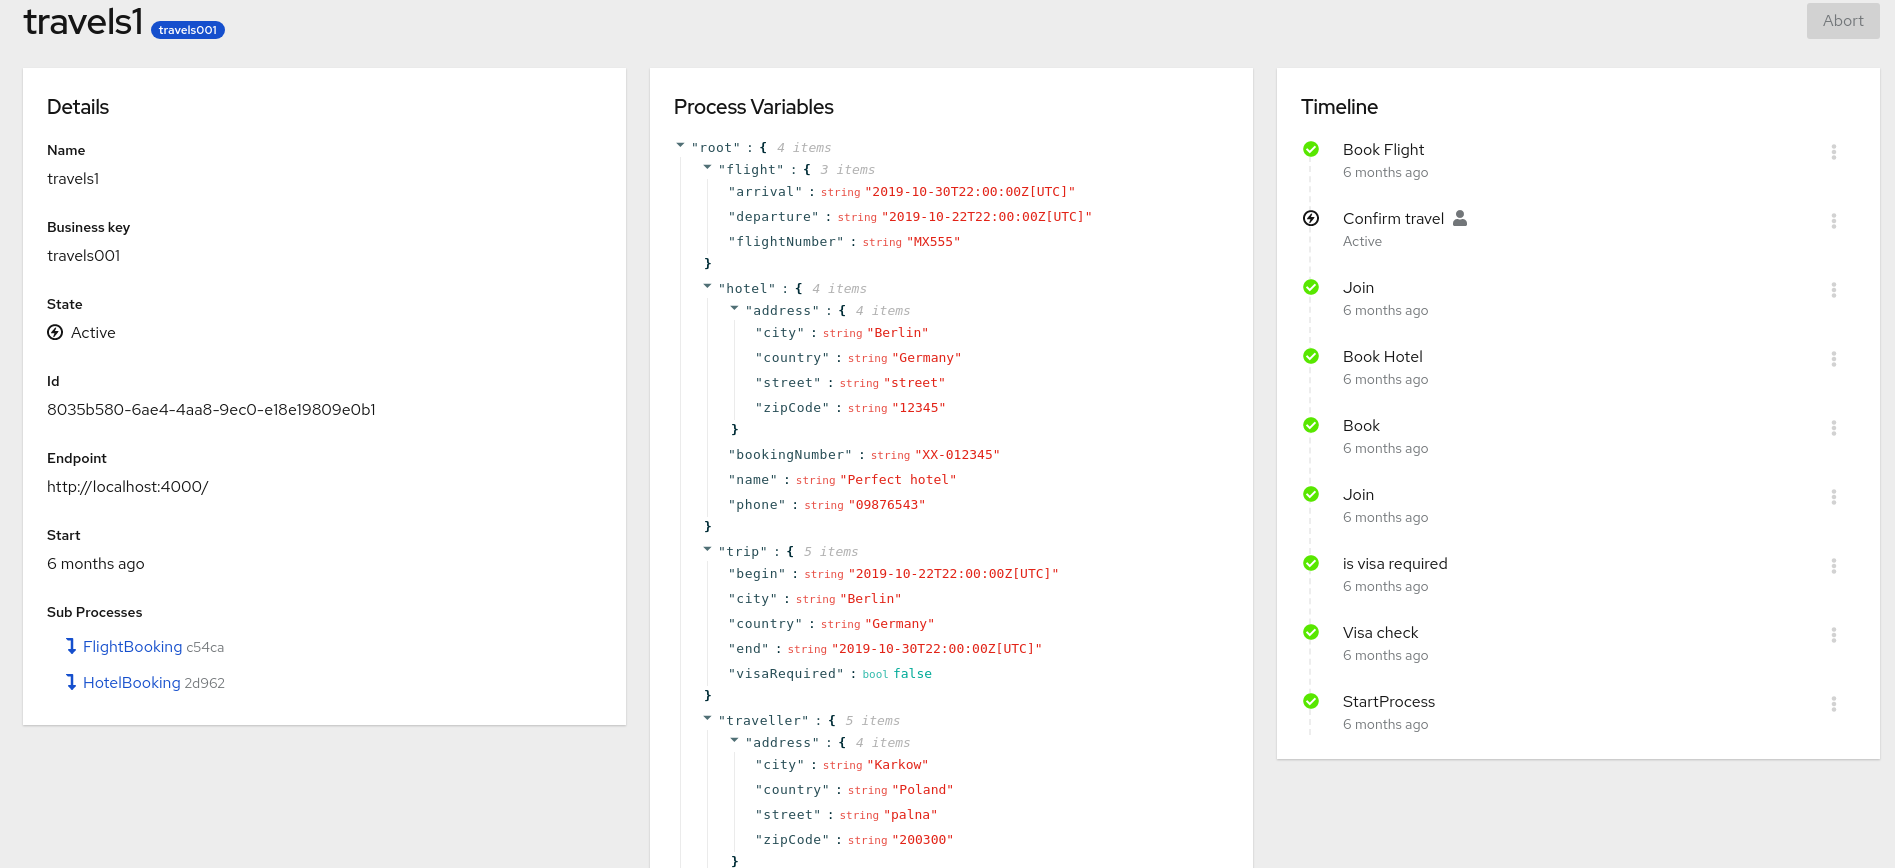
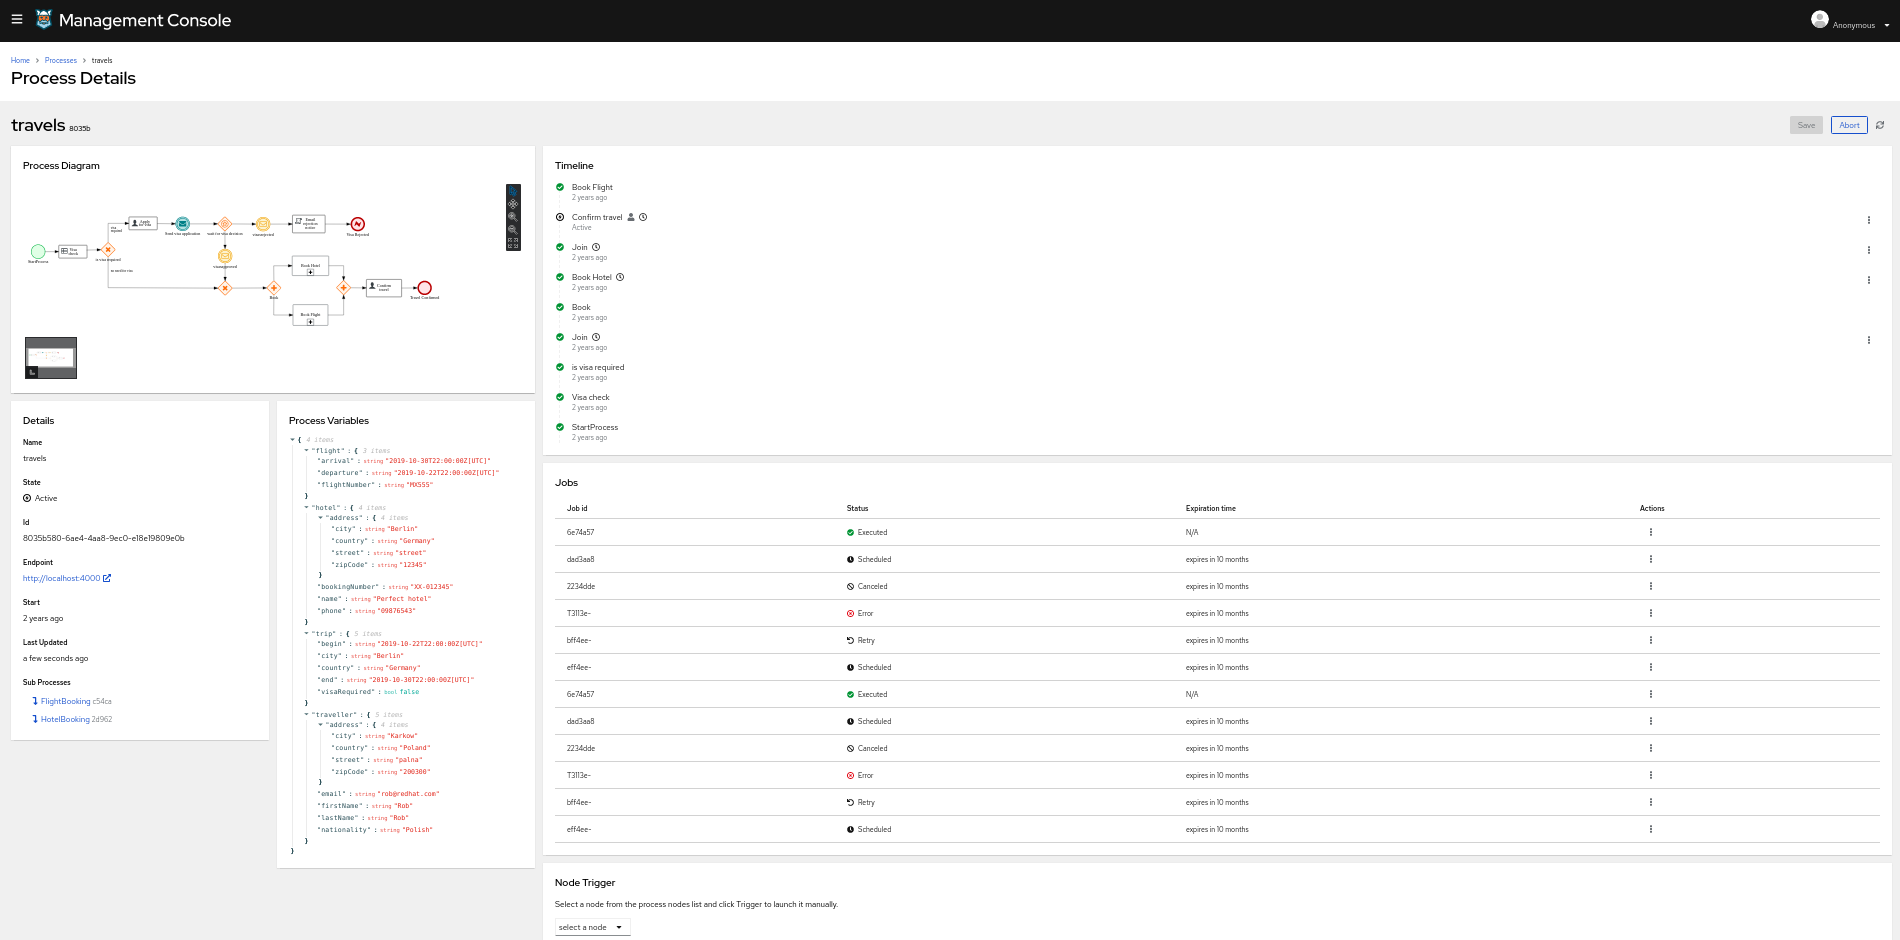
updated readme in mgmt/task console

diff --git a/management-console/README.md b/management-console/README.md
@@ -26,6 +26,8 @@ The application is now runnable using:
 java -jar target/management-console-8.0.0-SNAPSHOT-runner.jar
 ```
 
+> Note: task-console requires keycloak server to be initialied for authentication.
+
 ## Creating a native executable
 
 You can create a native executable using: 
@@ -99,15 +101,20 @@ Initially the process instance list loads all the active instances available.To 
 #### Bulk Process Actions
 ![Multiselect](./docs/multiselect.gif "Multiselect")
 
-  The multi select is used to select multiple process instances while performing bulk [process-management](#process-management) actions.The multi select checkbox by default selects all the parent and child process instances(if loaded). It also has drop-down actions to select none (removes all selections), select only parent process instances, select all the process instances (both parent and child). The multi-select works in correlation with the **Aborted** **selected** button which is present in the top-right corner.This is a part of the [bulk operations](#bulk-operations) performed in the list.
+  The multi select is used to select multiple process instances while performing bulk [process-management](#process-management) actions.The multi select checkbox by default selects all the parent and child process instances(if loaded). It also has drop-down actions to select none (removes all selections), select only parent process instances, select all the process instances (both parent and child). The multi-select works in correlation with the set of buttons present as a part of the toolbar. The buttons present are - **Abort selected**, **Retry selected** and **Skip selected**. This is a part of the [bulk operations](#bulk-operations) performed in the list.
 
   ![Bulkoperations](./docs/bulkoperations.gif "Bulkoperations")
   
-  The process instance list allows the user to select multiple process instances and perform bulk process management operations.It consist of *Abort selected*.The user can select individual process instances by selecting the checkbox present in the list or use the [multi select checkbox](#multi-select-checkbox) to select the process instances.Then clicking on the *Abort selected* will open a box to show the instances being aborted and the instances being skipped(An instance which is already in *Completed* or *Aborted* cannot be Aborted again, hence the instances are skipped).
+  The process instance list allows the user to select multiple process instances and perform bulk process management operations.It consist of *Abort selected*, *Retry selected* and *Skip selected*.The user can select individual process instances by selecting the checkbox present in the list or use the [multi select checkbox](#multi-select-checkbox) to select the process instances. 
+  
+  - Clicking on the *Abort selected* will open a box to show the instances being aborted and the instances being skipped(An instance which is already in *Completed* or *Aborted* cannot be Aborted again, hence the instances are skipped).
+  - Clicking on the *Retry selected* or *Skip selected* will open a box to show the instances being retriggered or skipped respectively. These actions can be performed on instances which are in *Error* state only. Other instances(in different states), if selected will appear under the skipped list.
+  
+  For all the bulk actions, if any of the instance goes throws an error while execution, they appear under the error list of the box.
 
 In addition to these , there is a **reload** button(a sync-icon), to reload the list and a **Reset to default** button which resets all the filters to its original state(Active status and no business key filter).
 
-**Note :** all the filters are applied only to the parent process instances.
+> **Note :** all the filters are applied only to the parent process instances.
 
 #### Process list
 
@@ -185,53 +192,25 @@ In addition to these , there is a **reload** button(a sync-icon), to reload the 
   #### Process variables
   The process variables shows the domain data in *JSON* format.
 
-## Domain Explorer
+  ### Process Diagram
+  The process diagram panel contains the BPMN process diagram, which the users you to view the current progress of the process.
 
-Domain Explorer allows you to inspect domain related data and process instances based on domains that are available.
+  ![Process Diagram](./docs/processdiagram.png?raw=true "ProcessDiagram")
 
-You can navigate to Domain Explorer by clicking "**Domain Explorer**" tab available on the sidebar, which will take you landing page of
-domain explorer and there you can see a list of available Domains.
+  ### Jobs Panel
+  The Jobs panel shows the list of jobs(timer) and we can execute operations on the jobs using this panel. The available operations are - *View details*, *Reschedule* and *Cancel*.
 
-![Domain Explorer](./docs/DELandingpage.png "Domain Explorer")
+  ![Jobs Panel](./docs/jobspanel.png?raw=true "JobsPanel")
 
-Selecting a domain on the landing page will direct you to a dashboard, where you can view all domain related data and list of processes associated with it.
+  ### Node Trigger Panel
+  The nodes of a process can be tirggered manually using this panel. It consist of a dropdown, which shows the list of triggerable nodes. Once the required node is selected, click on *Trigger* button to trigger the node.
 
+  ![Node Trigger](./docs/nodetrigger.png?raw=true "NodeTrigger")
 
-### Column Picker
-
-Domain Explorer allows you to select the domain attributes that you wish to see on the result table.
-
-This column picker is a multi select dropdown that contains the available domain attributes, that allows you to select any number of options available in the dropdown, there are few options that are selected by default which can be changed of your choice. The options available in the dropdown follows a certain nested pattern, displayed the entire graph of attributes available in the specific domain.
-
-eg: "**hotel/address**" denotes address attribute of hotel.
-
-After selecting/deselecting options from the dropdown, clicking on "**Apply columns**" would get you domain data on the table.
-
-![Column Picker](./docs/pickColumns.gif "Column Picker")
-
-### Refresh option
-
-There can be a possibilites of,
-* change in state of processes, while performing operations like skip, retry or abort
-* New process instance being added.
-
-In order to check the current state of processes or current list of processes available on the domain you can always do a refresh of the table by clicking icon placed next to Apply columns button. This will get you current and updated content to the table.
-
-
-### Dashboard
-
-The table on the Domain Explorer will provide you information about the specific domain data and list of processes associated with it.
-
-To check the list of processes, you may have to expand each row of the table by clicking on the **carret** icon available on each row.
-
-![Dashboard](./docs/expandRow.gif "Dashboard")
-
-### Navigate to process details
-
-To get to know more about a process, you can always click on any process instance to direct to process details page and there you can see details about the process as well as the timeline and process variables.
-
-![navigate](./docs/navigate.gif "navigate")
-
+  ### Milestones Panel
+  The milestones panel show the list of milestones present and their current states.
+  
+  ![Milestones](./docs/milestones.png?raw=true "Milestones")
 
 ## Enabling Keycloak security
 
@@ -247,6 +226,14 @@ You should be able to access your Keycloak Server at [localhost:8280/auth](http:
 and verify keycloak server is running properly: log in as the admin user to access the Keycloak Administration Console. 
 Username should be admin and password admin.
 
+The following are the users available in keycloak
+
+| Login         | Password   | Roles               |
+| ------------- | ---------- | ------------------- |
+|    admin      |   admin    | *admin*, *managers* |
+|    alice      |   alice    | *user*              |
+|    jdoe       |   jdoe     | *managers*          |
+
 To change any of this client configuration access to http://localhost:8280/auth/admin/master/console/#/realms/kogito.
 
 ### Starting Kogito Management Console in dev mode
@@ -255,48 +242,5 @@ Start the management console at port 8380, (the keycloak client 'kogito-console-
 and enabling auth:
 
 ```
-mvn clean compile quarkus:dev -Dquarkus.http.port=8380 -Dquarkus.profile=keycloak
+mvn clean compile quarkus:dev -Dquarkus.http.port=8380
 ```
-
-## Enabling Test User System
-
-Management Console and Task Console include a Test User System to be used only for testing purposes. It provides a set of
-predefined users, ability to switch users and ability to add new users (stored in-memory).
-
-It's possible to enable it by adding the parameter `kogito.test.user-system.enabled=true`, for example:
-
-```
-mvn clean compile quarkus:dev -Dquarkus.http.port=8380 -Dkogito.test.user-system.enabled=true
-```
-
-> _**NOTE**_: The Test User System won't be available when starting the application with `keycloak` profile.
-
-### Switching to a different user
-
-The Test User System provides a set of predefined users that can be used:
-
-|   User   |       Groups      |  
-|----------|-------------------|
-|   john   |     employees     |
-|   mary   |      managers     |
-|   poul   | interns, managers |
-
-Open the available users list by clicking on the top right **User Avatar**, then click on any of the
-users to switch to that user.
-
-![Showing available test users](./docs/testusersystem-menu.png "Showing available test users")
-
-### Adding new test users
-
-To register new users to the Test User System just click on the top right **User Avatar** and click **+ Add new User**
-to open the **New Test User** modal.
-
-![Showing available test users](./docs/testusersystem-menu-add.png "Showing available test users")
-
-When the **New Test User** form appears, fill the **User Id** field with the new user id and the **Groups** with a comma-separated
-list of groups you want the user to belong and press **Add** to proceed register the user. 
-
-![Add new test user modal](./docs/testusersystem-add-user.png "Add new test user modal")
-
-> _**NOTE**_: The users stored in Test User System are stored in-memory, refreshing the screen will restore the user system
->to its original state. 

diff --git a/task-console/README.md b/task-console/README.md
@@ -26,6 +26,8 @@ The application is now runnable using:
 java -jar target/task-console-8.0.0-SNAPSHOT-runner.jar
 ```
 
+> Note: task-console requires keycloak server to be initialied for authentication.
+
 ## Creating a native executable
 
 You can create a native executable using: 
@@ -78,7 +80,50 @@ You should be able to access your Keycloak Server at [localhost:8280/auth](http:
 and verify keycloak server is running properly: log in as the admin user to access the Keycloak Administration Console. 
 Username should be admin and password admin.
 
+The following are the users available in keycloak
+
+| Login         | Password   | Roles               |
+| ------------- | ---------- | ------------------- |
+|    admin      |   admin    | *admin*, *managers* |
+|    alice      |   alice    | *user*              |
+|    jdoe       |   jdoe     | *managers*          |
+
 To change any of this client configuration access to http://localhost:8280/auth/admin/master/console/#/realms/kogito.
+
+### Working with Task Console features
+
+The task console shows a list of user tasks which are available for a process. Each column contains detailed information about the user task which are - *Name*, *Process*, *Priority*, *Status*, *Started* and *Last update*. The columns are sortable.
+
+![Task Console](./docs/taskconsole.png?raw=true "TaskConsole")
+
+The task console consist of filters, which can be used to narrow down the search on a user task. There are two filters available
+
+- A filter based on the status(dropdown)
+- A filter based on the task name(text search)
+
+![Filters](./docs/filters.png?raw=true "Filters")
+
+The *Status* filter can be dropped down to view the and select the states available
+
+![States](./docs/states.png?raw=true "States")
+
+A *refresh* button is available to refresh the list of user tasks
+
+A *Reset to default* button is available to reset the filters to its initial state.
+
+The user task list also supports pagination.
+
+Clicking on the name of the user task will navigate to another screen, which consist of the auto generated forms.
+
+### Task details
+
+The task details page consist of an auto generated forms and buttons to perform corresponding action on the user tasks.
+
+![Forms](./docs/forms.png?raw=true "Forms")
+
+The task details page also contains a *View details* button, to view more details about the task.
+
+![Details](./docs/details.png?raw=true "Details")
 
 ### Starting Kogito Task Console in dev mode
 
@@ -86,47 +131,5 @@ Start the task console at port 8380, (the keycloak client 'kogito-console-quarku
 and enabling auth:
 
 ```
-mvn clean compile quarkus:dev -Dquarkus.http.port=8380 -Dquarkus.profile=keycloak
+mvn clean compile quarkus:dev -Dquarkus.http.port=8380
 ```
-## Enabling Test User System
-
-Management Console and Task Console include a Test User System to be used only for testing purposes. It provides a set of
-predefined users, ability to switch users and ability to add new users (stored in-memory).
-
-It's possible to enable it by adding the parameter `kogito.test.user-system.enabled=true`, for example:
-
-```
-mvn clean compile quarkus:dev -Dquarkus.http.port=8380 -Dkogito.test.user-system.enabled=true
-```
-
-> _**NOTE**_: The Test User System won't be available when starting the application with `keycloak` profile.
-
-### Switching to a different user
-
-The Test User System provides a set of predefined users that can be used:
-
-|   User   |       Groups      |  
-|----------|-------------------|
-|   john   |     employees     |
-|   mary   |      managers     |
-|   poul   | interns, managers |
-
-Open the available users list by clicking on the top right **User Avatar**, then click on any of the
-users to switch to that user.
-
-![Showing available test users](./docs/testusersystem-menu.png "Showing available test users")
-
-### Adding new test users
-
-To register new users to the Test User System just click on the top right **User Avatar** and click **+ Add new User**
-to open the **New Test User** modal.
-
-![Showing available test users](./docs/testusersystem-menu-add.png "Showing available test users")
-
-When the **New Test User** form appears, fill the **User Id** field with the new user id and the **Groups** with a comma-separated
-list of groups you want the user to belong and press **Add** to proceed register the user. 
-
-![Add new test user modal](./docs/testusersystem-add-user.png "Add new test user modal")
-
-> _**NOTE**_: The users stored in Test User System are stored in-memory, refreshing the screen will restore the user system
->to its original state. 
